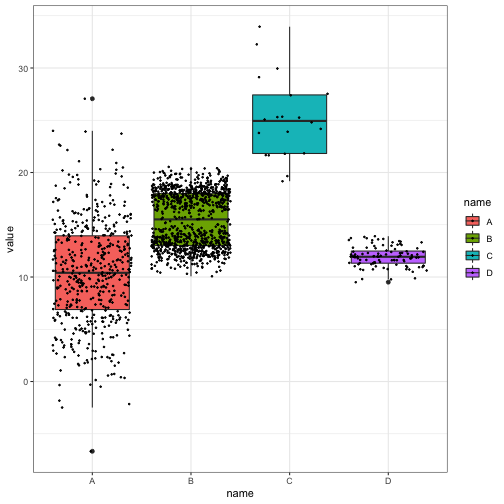
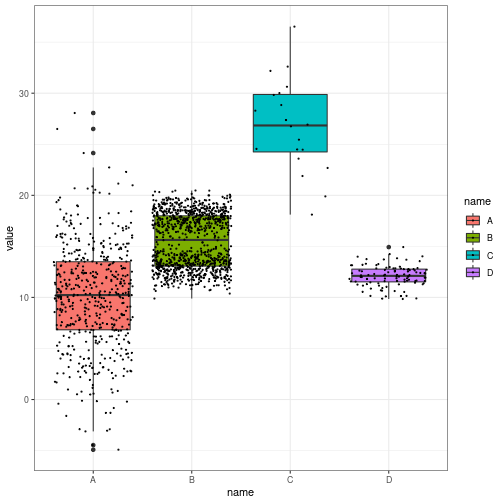
my changes

diff --git a/slides/presentations-week-5.html b/slides/presentations-week-5.html
@@ -1,20 +1,19 @@
 <!DOCTYPE html>
 <html lang="" xml:lang="">
   <head>
-    <title>HW Week 5 - Introduction to Data Viz</title>
+    <title>Week 5 - Introduction to Data Viz</title>
     <meta charset="utf-8" />
     <meta name="author" content="Joshua Rosenberg, Alex Lishinski" />
-    <meta name="date" content="2021-02-11" />
-    <script src="libs/header-attrs-2.6/header-attrs.js"></script>
+    <meta name="date" content="2021-02-18" />
     <link rel="stylesheet" href="theme.css" type="text/css" />
   </head>
   <body>
     <textarea id="source">
 class: center, middle, inverse, title-slide
 
-# HW Week 5 - Introduction to Data Viz
+# Week 5 - Introduction to Data Viz
 ### Joshua Rosenberg, Alex Lishinski
-### February 11, 2021
+### February 18, 2021
 
 ---
 
@@ -190,18 +189,18 @@ data
 
 ```
 ## # A tibble: 1,620 x 2
-##    name  value
-##    &lt;chr&gt; &lt;dbl&gt;
-##  1 A     10.8 
-##  2 A      7.40
-##  3 A     16.3 
-##  4 A      7.36
-##  5 A     11.1 
-##  6 A     11.6 
-##  7 A     12.3 
-##  8 A      5.85
-##  9 A     10.0 
-## 10 A     10.5 
+##    name   value
+##    &lt;chr&gt;  &lt;dbl&gt;
+##  1 A     17.0  
+##  2 A     11.4  
+##  3 A      2.74 
+##  4 A      4.51 
+##  5 A     10.4  
+##  6 A     -0.206
+##  7 A      4.19 
+##  8 A     11.7  
+##  9 A     11.7  
+## 10 A      6.73 
 ## # … with 1,610 more rows
 ```
 
@@ -322,7 +321,7 @@ With great power comes great responsibility
 In your base group's Slack channel:
 
 - What is one thing you took away from today?
-- What is something you want to learn more about? 
+- What is something you want to learn more about?
     </textarea>
 <style data-target="print-only">@media screen {.remark-slide-container{display:block;}.remark-slide-scaler{box-shadow:none;}}</style>
 <script src="https://remarkjs.com/downloads/remark-latest.min.js"></script>
